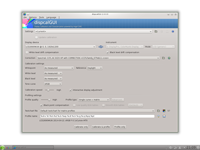
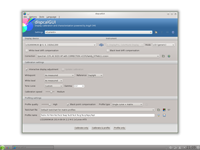
Updated screenshots & ReadMe theme
git-svn-id: https://svn.code.sf.net/p/dispcalgui/code/trunk@2344 6ae35eb0-b8ff-4ca7-919d-0ec1eff389cd

Changed region(s): [[0.09, 0.0533, 0.9, 0.9067], [0.78, 0.72, 0.87, 0.8]]

diff --git a/theme/readme.js b/theme/readme.js
@@ -100,7 +100,7 @@ jQuery(function ($) {
 	});
 	
 	/* Indent after br */
-	$('#content br').after('<span class="indent"></span>')
+	$('#content p > br').after('<span class="indent"></span>')
 	
 	/* Teaser */
 	var interval = setInterval(function () {

diff --git a/theme/readme.css b/theme/readme.css
@@ -157,7 +157,7 @@ h5 {
 	font-size: 16px;
 	line-height: 20px;
 }
-acronym {
+acronym[title], span[title] {
 	border-bottom: 1px dotted #ccc;
 	cursor: help;
 }
